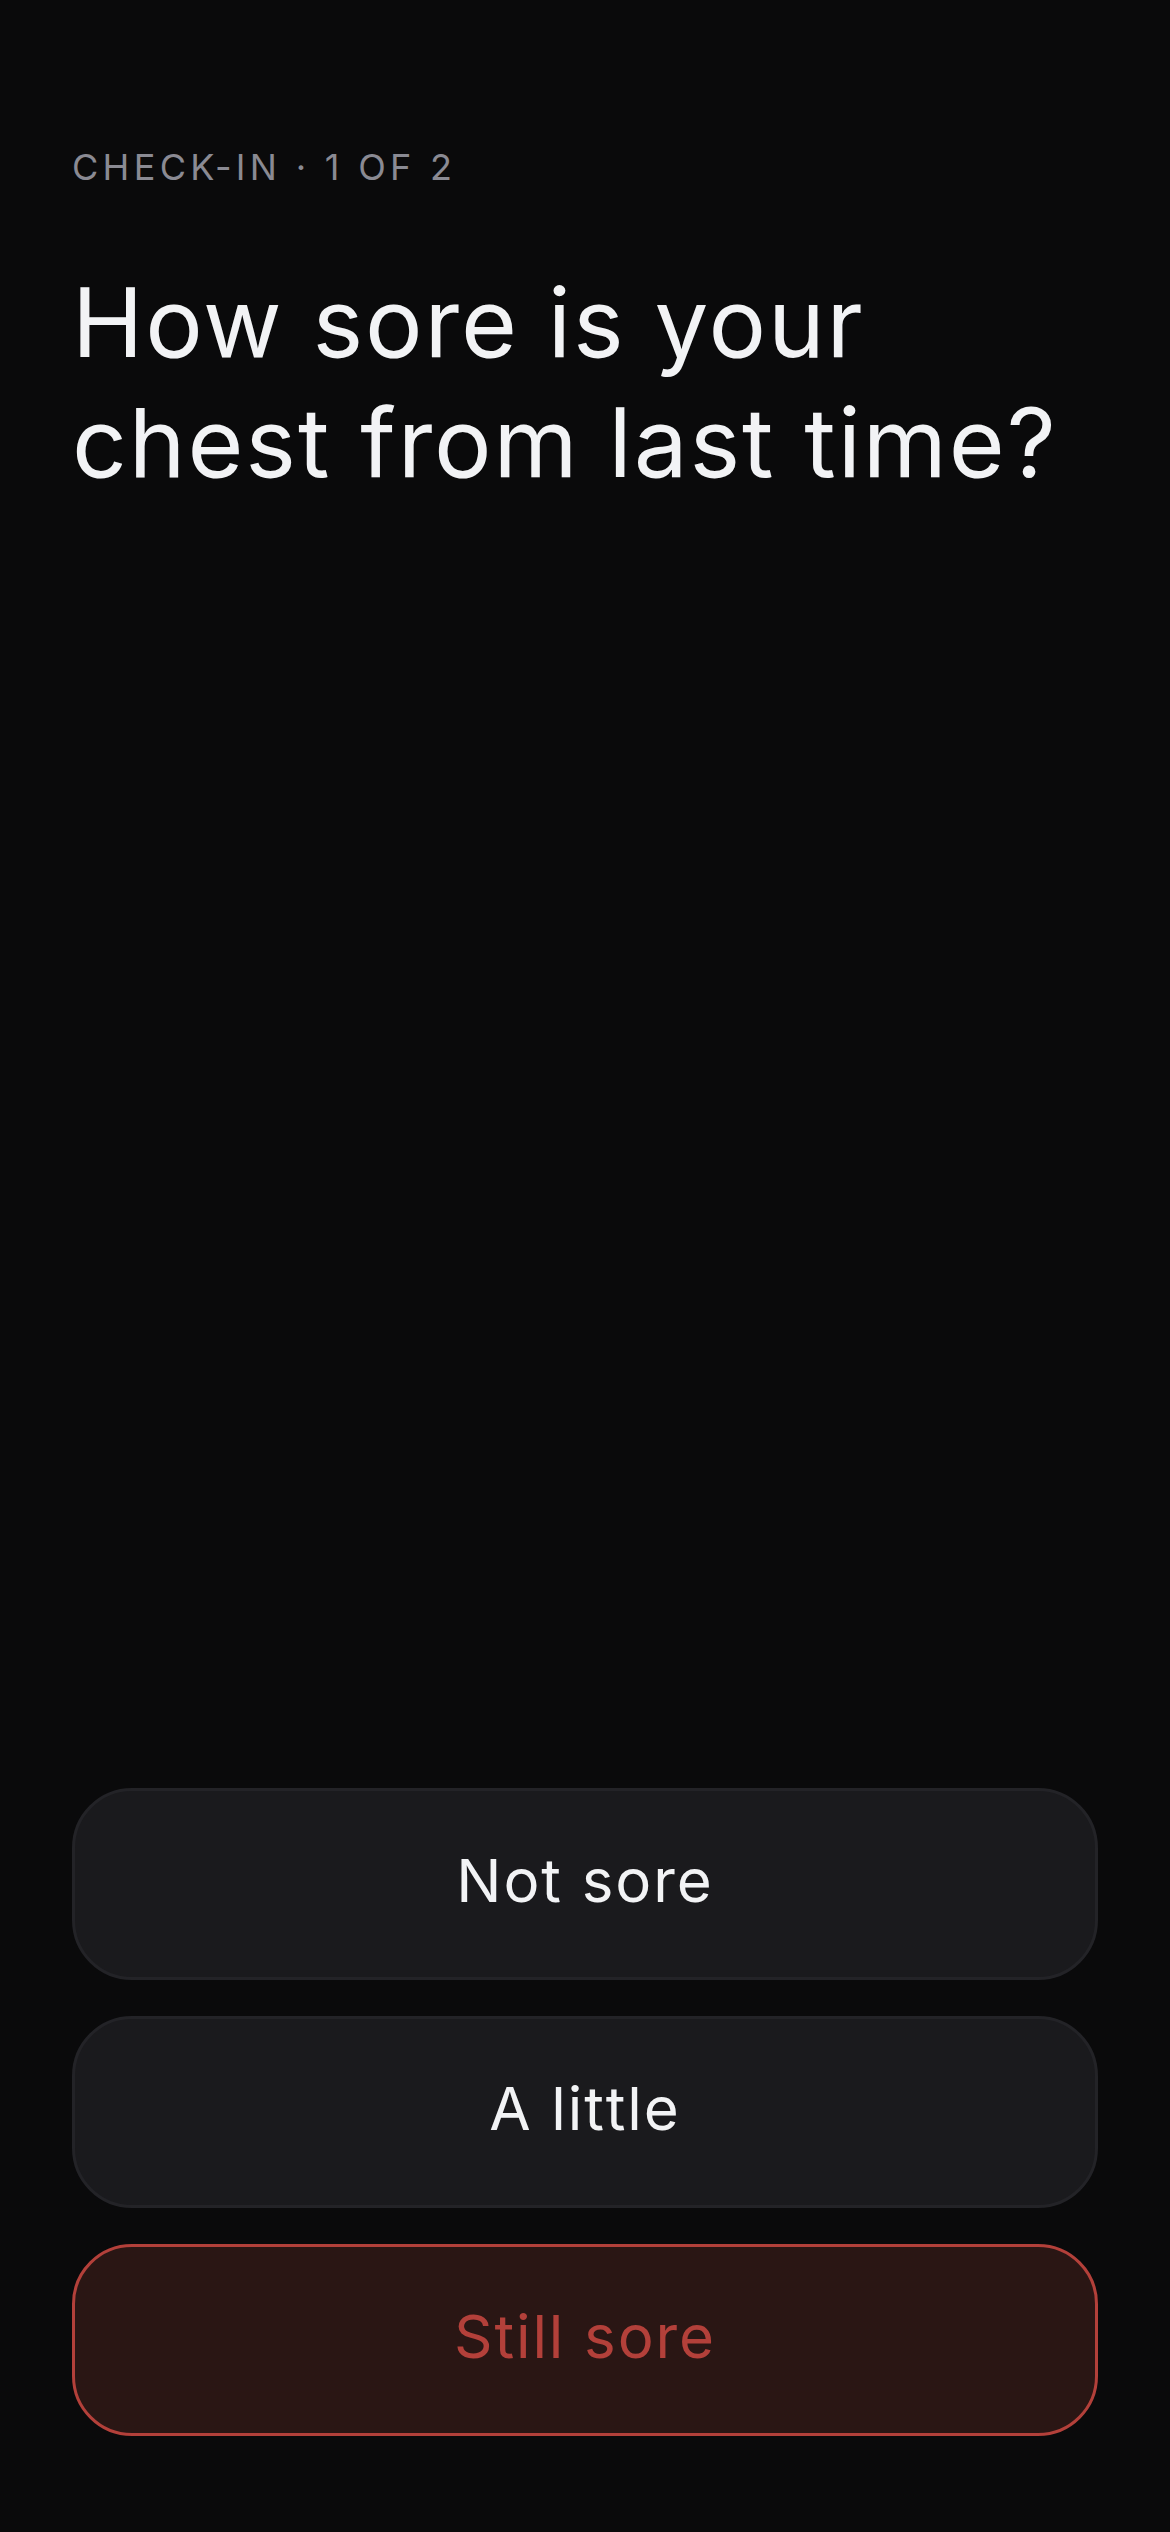
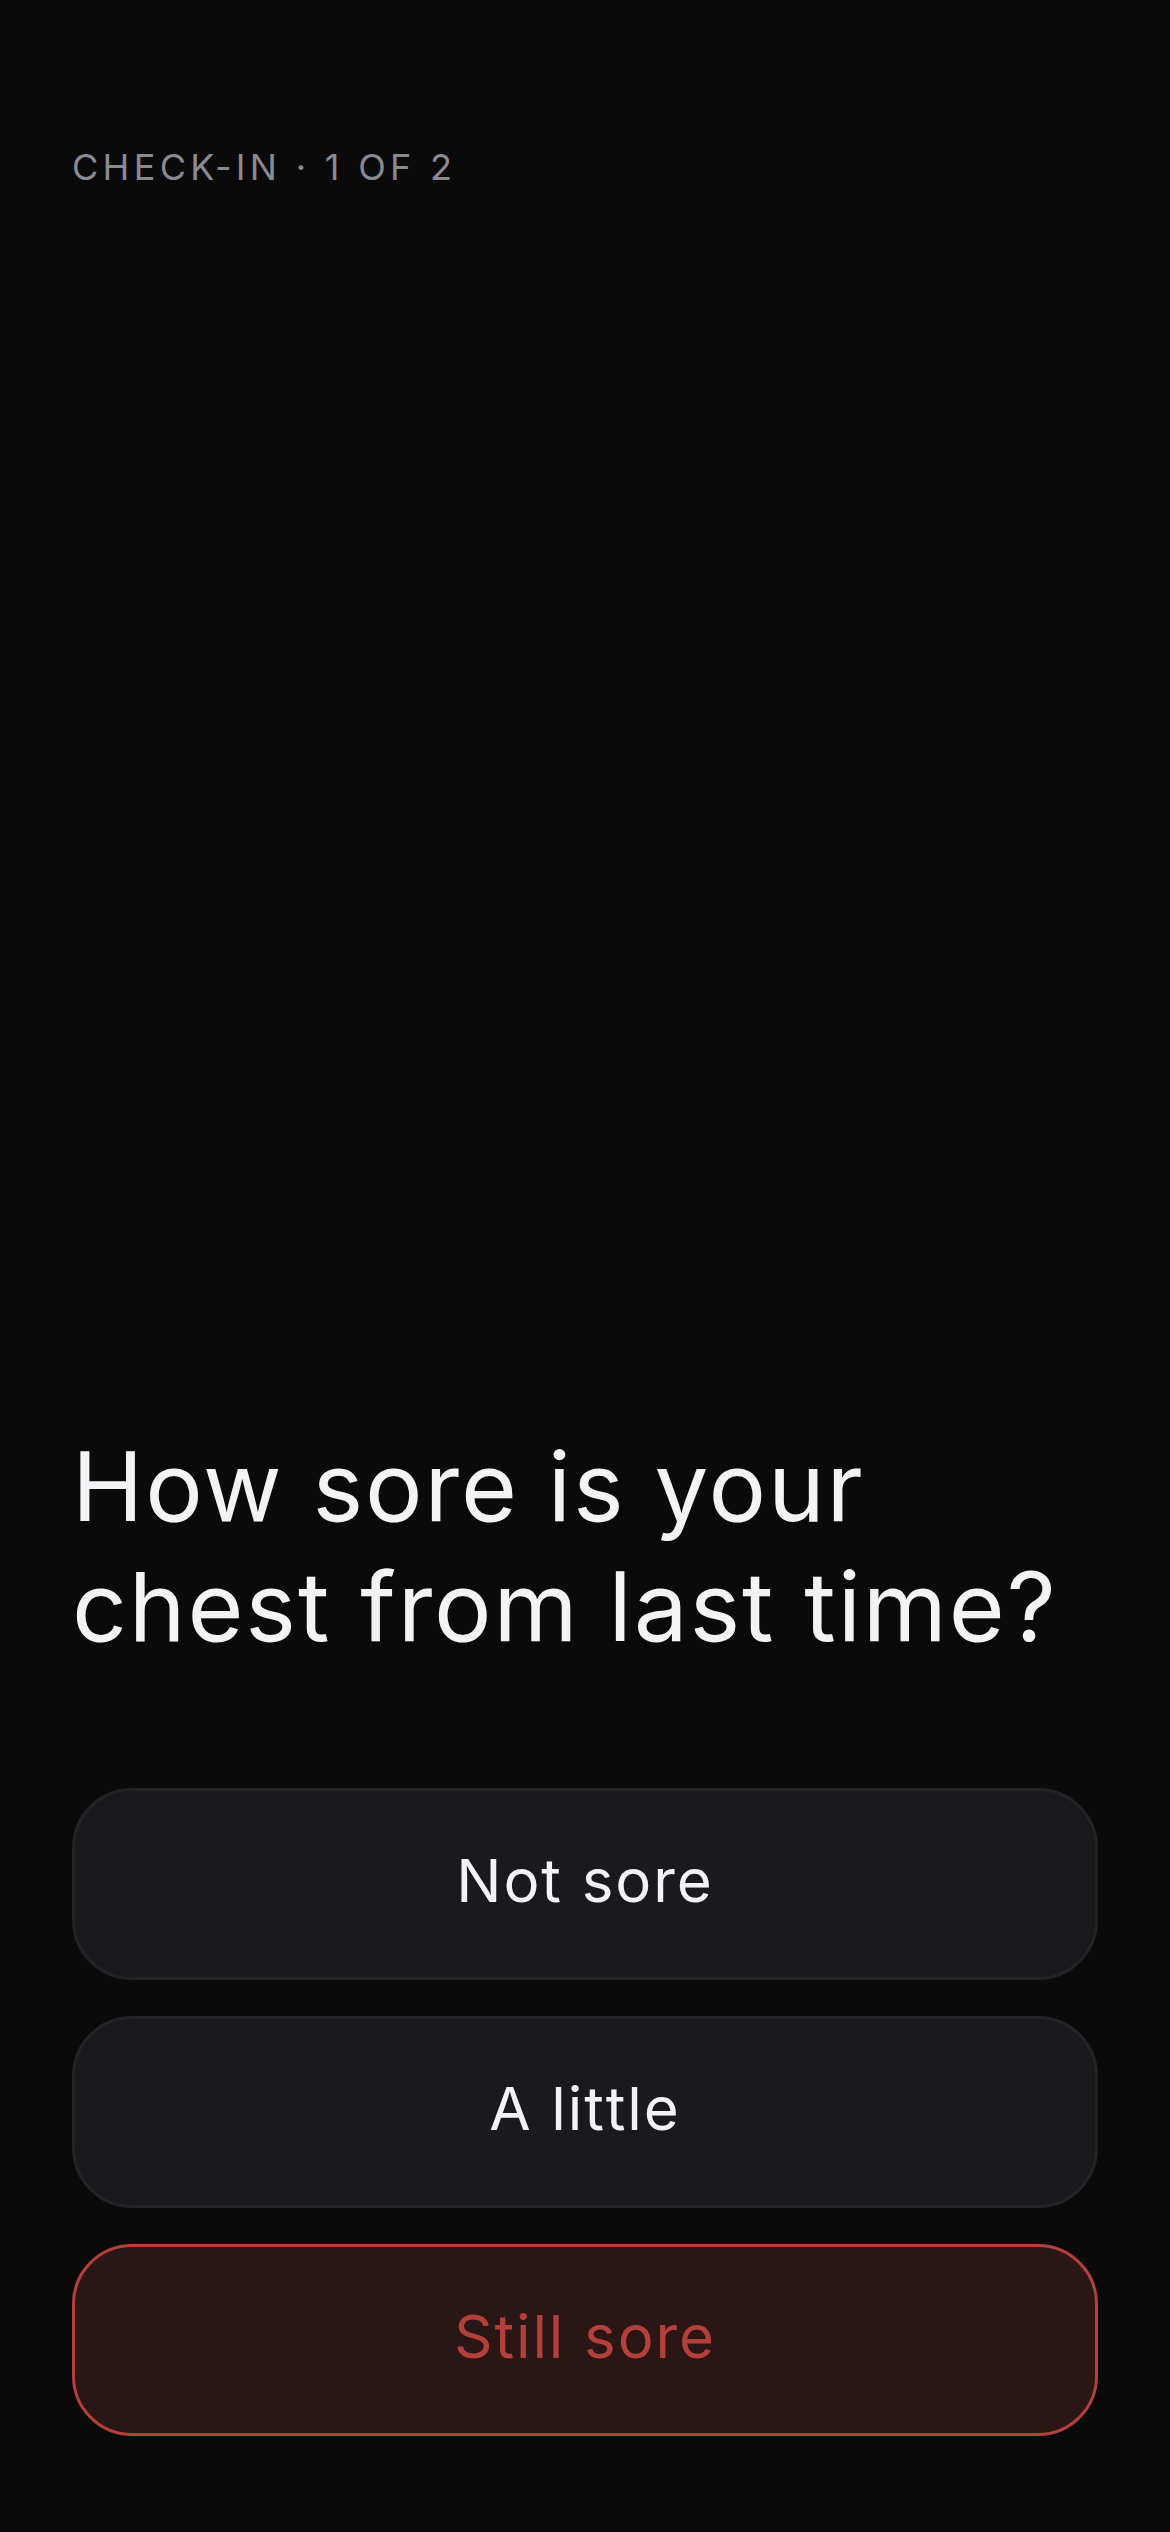
Phase 8: polish pass against the brief's design section
Critiqued every screen against BRIEF Part 7 with fresh screenshots; most of
it already held because the screenshot audit has enforced the quality floor
since Phase 1. Three real mismatches found and fixed:

- Feedback questions: the question now sits directly above the answers in
  the thumb zone instead of a half-screen away at the top
- Week board: a rest day that is today now carries the today marker and
  announces 'today, rest day' — the status ladder had let rest outrank it
- prove-settings now lets the 140ms theme crossfade settle before its
  screenshots, so the evidence shows what users actually see

The full pre-polish screenshot set is kept in screenshots/before/ for
comparison. Gates: 183 tests, build, all six browser proofs, 16/16 sweep.

Claude-Session: https://claude.ai/code/session_01CAbP54sosu1znVWxFPtxP3

diff --git a/src/features/dashboard/DashboardScreen.tsx b/src/features/dashboard/DashboardScreen.tsx
@@ -268,7 +268,7 @@ function Stat({ value, label }: { value: string; label: string }) {
 }
 
 function DayChip({ day }: { day: WeekDay }) {
-  const style = chipStyle(day.status)
+  const style = chipStyle(day.status, day.isToday)
   return (
     <button
       type="button"
@@ -290,7 +290,16 @@ function DayChip({ day }: { day: WeekDay }) {
  * every chip also spells its state out to a screen reader, and the legend
  * above names each colour in words.
  */
-function chipStyle(status: WeekDayStatus): { chip: string; letter: string; bar: string } {
+function chipStyle(
+  status: WeekDayStatus,
+  isToday = false,
+): { chip: string; letter: string; bar: string } {
+  // A rest day that is *today* still gets the today marker (Phase 8): the
+  // status ladder puts rest above today, which is right for progression but
+  // left Sundays with no "you are here" on the board at all.
+  if (status === 'rest' && isToday) {
+    return { chip: 'bg-surface-raised', letter: 'text-text', bar: 'bg-text' }
+  }
   switch (status) {
     case 'completed':
       return { chip: 'bg-accent-surface', letter: 'text-accent', bar: 'bg-accent' }
@@ -326,7 +335,7 @@ function dayChipLabel(day: WeekDay): string {
     case 'missed':
       return `${which}, missed`
     case 'rest':
-      return `${which}, rest day`
+      return day.isToday ? `${which}, today, rest day` : `${which}, rest day`
     case 'upcoming':
     default:
       return `${which}, upcoming`

diff --git a/src/features/session/QuestionScreen.tsx b/src/features/session/QuestionScreen.tsx
@@ -35,12 +35,17 @@ export function QuestionScreen<T extends string>({
     <Screen>
       <p className="text-xs tracking-wider text-text-secondary uppercase">{step}</p>
 
-      <h1 className="mt-6 max-w-measure-tight text-2xl leading-snug text-balance text-text">
+      {/* The question sits directly above the answers rather than at the top
+          of the screen (Phase 8): between sets this is read at arm's length
+          in one glance, and a question separated from its answers by half a
+          screen of black made the eye travel for nothing. The step label
+          stays up top for orientation; everything that must be read and
+          tapped lives together in the thumb's half. */}
+      <h1 className="mt-auto max-w-measure-tight text-2xl leading-snug text-balance text-text">
         {question}
       </h1>
 
-      {/* Options pinned low, where the thumb already is. */}
-      <div className="mt-auto flex flex-col gap-3 pt-10">
+      <div className="mt-10 flex flex-col gap-3">
         {options.map((option) => (
           <button
             key={option.value}

diff --git a/scripts/prove-settings.ts b/scripts/prove-settings.ts
@@ -98,6 +98,9 @@ async function main(): Promise<void> {
     )
     const lightBg = await bg(page)
     check('light mode changes the background', lightBg !== darkBg)
+    // Buttons crossfade their colours over --duration-fast; let that finish
+    // so the evidence shows the settled theme, not a mid-transition frame.
+    await page.waitForTimeout(400)
     await page.screenshot({ path: resolve(OUT_DIR, 'settings-light.png') })
     await page.getByRole('button', { name: 'dark', exact: true }).click()
     await page.waitForFunction(

diff --git a/src/lib/version.ts b/src/lib/version.ts
@@ -5,4 +5,4 @@
  * Phase 7 service worker adds another cache layer. Moves into the Settings
  * screen when that exists.
  */
-export const APP_VERSION = 'Phase 7'
+export const APP_VERSION = 'Phase 8'

diff --git a/PLAN.md b/PLAN.md
@@ -278,7 +278,7 @@ One phase per session. No building ahead. Every phase ends with: tests run and o
 | 5 — Mesocycle and deload | ✅ Complete — six-week simulation gate passing |
 | 6 — History | ✅ Complete — three charts, screenshot gate with realistic data |
 | 7 — PWA and backup | ✅ Complete — installable, fully offline, export/import proven end to end in a real browser |
-| 8 — Polish | ⬜ Not started |
+| 8 — Polish | ✅ Complete — every screen critiqued against Part 7; three real mismatches found and fixed, the rest already held |
 
 ### Modified files
 
@@ -458,6 +458,14 @@ scripts/prove-offline.ts         the gate: airplane mode + backup round trip
 screenshots/offline-dashboard.png · restore-confirm.png
 ```
 
+**Phase 8:**
+```
+src/features/session/QuestionScreen.tsx   question bottom-anchored with answers
+src/features/dashboard/DashboardScreen.tsx  today marker survives rest days
+scripts/prove-settings.ts        theme screenshots wait for the crossfade
+screenshots/before/              the full pre-polish set, for comparison
+```
+
 ### Phase 5+6 notes
 
 - Deload sessions are invisible to progression, to the greyed targets, and
@@ -523,6 +531,44 @@ joint-pain flag moved to a deeper, duller red and those flags always carry a
 word as well as a colour. The light theme carries the same identity one step
 deeper for contrast on white. Recorded here rather than silently contradicting
 the brief.
+
+### Phase 8 notes — the Part 7 critique
+
+Every screen was re-shot and read against Part 7, line by line. The honest
+headline: most of Part 7 already held, because `scripts/screenshot.ts` has
+enforced its quality floor (44px targets in both dimensions, ≤2 glows,
+tabular figures, safe areas, action in the bottom third) at every phase gate
+since Phase 1 — the polish debt was paid continuously instead of saved up.
+Three real mismatches survived scrutiny; all three are fixed:
+
+1. **The feedback questions had a dead half-screen.** Question pinned to the
+   top, answers to the bottom, half a screen of black between them. Between
+   sets this is read at arm's length in one glance, so the question now sits
+   directly above the answers in the thumb's half; the step label stays up
+   top for orientation. (Before/after: `before/feedback-pump.png` vs
+   `feedback-pump.png`.)
+2. **Rest days lost the "you are here" marker.** The week board derives its
+   colours from the status ladder, where rest outranks today — right for
+   progression, but it meant a Sunday showed no today marker anywhere on the
+   board. A rest-day today now carries the same near-white bar as any other
+   today, and announces "today, rest day". (Before/after:
+   `before/dashboard-rest.png` vs `dashboard-rest.png`.)
+3. **The theme-switch evidence lied.** Buttons crossfade their colours over
+   140ms, and prove-settings screenshotted the instant the body repainted —
+   the light-mode shot showed a mid-transition dark slab that a user never
+   sees. The proof now lets the transition settle first. A capture fix, not
+   an app fix, but wrong evidence is its own defect.
+
+Read and accepted as deliberate, not fixed: the top-right "‹ Dashboard" /
+"⋯" affordances (owner-approved layout, secondary actions only); stat cards
+and the block strip cutting mid-element at the fold (that peeking edge is
+the scroll cue); the six red "missed" bars after an untrained week (that is
+the honest rendering — the seed and block-start logic anchor forward, so a
+"missed" day is always one the user could actually have trained); and the
+11px micro labels, which caption large numerals rather than carry content.
+
+Gates re-run after the fixes: 183 tests, production build, all six browser
+proofs, 16/16 device sweep.
 
 ### Phase 7 notes — PWA and backup
 
